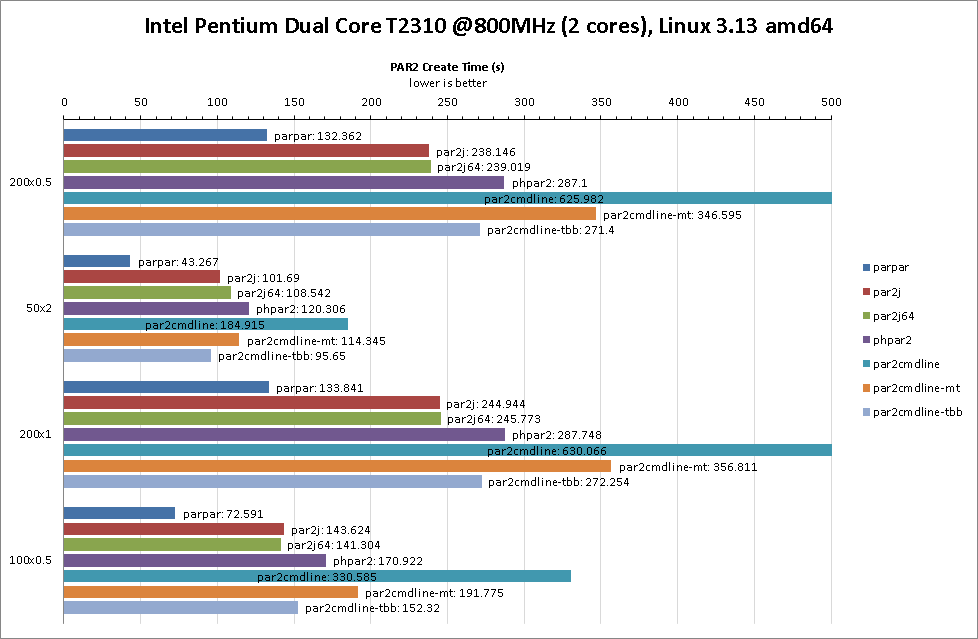
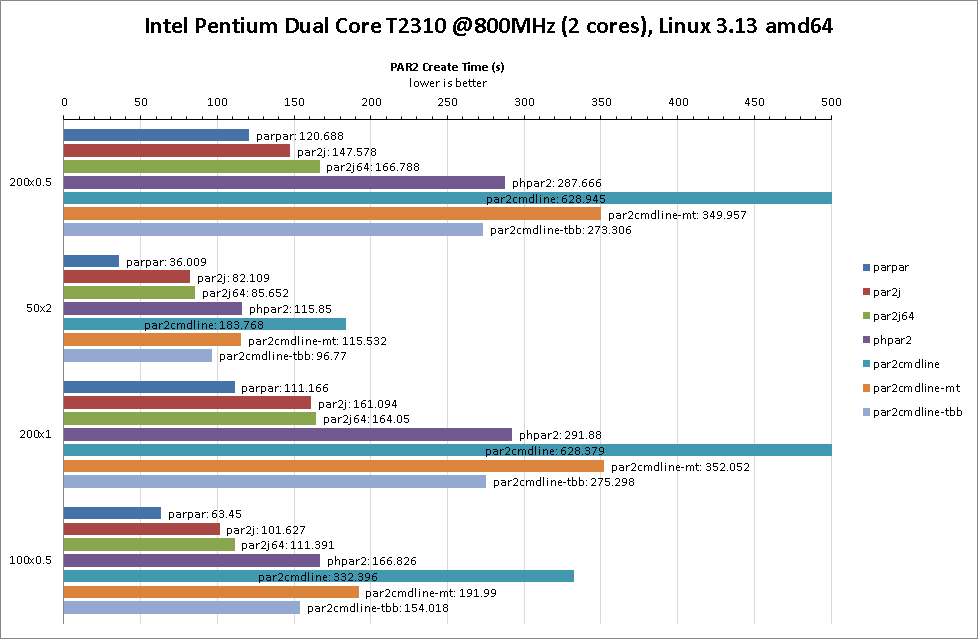
Update benchmarks

diff --git a/benchmarks/info.md b/benchmarks/info.md
@@ -21,11 +21,13 @@ Sample Benchmark Results
 
 ![](<i5-3570.png>)
 
-![](<Xeon2650.png>)
-
 ![](<A7750.png>)
 
 ![](<T2310.png>)
+
+![](<i3-4160.png>)
+
+![](<AllwinnerH3.png>)
 
  
 
@@ -35,11 +37,12 @@ Benchmark Details
 Applications Tested (and commands given)
 ----------------------------------------
 
--   ParPar 0.1.0 (incomplete) [2015-10-04]
+-   [ParPar 0.2.0](<https://github.com/animetosho/parpar>) [2015-11-15]
 
     -   `parpar -s [blocksize] -r [rblocks] -m 2000M -o [output] [input]`
 
--   [par2j from MultiPar 1.2.8.4](<http://hp.vector.co.jp/authors/VA021385/>) [2015-09-19]
+-   [par2j from MultiPar 1.2.8.7](<http://hp.vector.co.jp/authors/VA021385>)
+    [2015-10-17]
 
     -   `par2j c -ss [blocksize] -rn [rblocks] -rf1 -in -m7 [output] [input]`
 
@@ -76,23 +79,33 @@ Applications Tested (and commands given)
 
 ### Notes
 
--   as it is still under a lot of development, ParPar’s benchmark result should
-    only be considered as very rough and just a general indicator of likely
-    performance. The result may change as ParPar becomes a fully featured PAR2
-    client.
-
 -   stock par2cmdline does not implement multi-threading, whereas all other
-    applications tested here do
+    applications tested here do. In some of the graphs above, par2cmdline’s
+    result has been cut off (but the number is accurate) so that interesting
+    results are highlighted
 
--   I believe that all applications use the SPLIT(16,8) algorithm for
-    calculation; par2j will use SPLIT(16,4) if SSSE3 is available; ParPar will
-    select one of SPLIT(16,4), XOR and SPLIT(16,8) depending on CPU
+-   I believe that all applications use the “SPLIT8” algorithm (8-bit LH lookup
+    table) for calculation; par2j will use “SPLIT4” if SSSE3 is available,
+    falling back to SPLIT8 otherwise; ParPar will select one of SPLIT4, XOR and
+    SPLIT8 depending on CPU capabilities. Algorithm selection should have the
+    following effect on performance:
+
+    -   SPLIT4 is signficantly faster than SPLIT8, but requires a vector byte
+        lookup instruction (available in SSSE3 (x86) or NEON (ARM))
+
+    -   XOR is significantly faster than SPLIT8 and slightly slower than SPLIT4,
+        for CPUs with fast SSE2. It is faster than SPLIT4 on CPUs with a slow
+        vector byte lookup implementation (Intel Atom or first gen Core 2)
+
+    -   ParPar supports 256-bit SPLIT4 implementation, so should be
+        significantly faster than par2j’s 128-bit implementation on CPUs that
+        support AVX2 (Intel Haswell, AMD Zen, VIA Eden X4 or later)
 
 -   par2j and phpar2 are Windows only, all other applications are cross platform
 
--   on Linux, par2j and phpar2 are run under Wine. All other applications are
-    built natively using standard build tools (GCC etc). *libtbb-dev* is needed
-    for par2cmdline-tbb to build.
+-   on x86 Linux, par2j and phpar2 are run under Wine. All other applications
+    are built natively using standard build tools (GCC etc). *libtbb-dev* is
+    needed for par2cmdline-tbb to build.
 
 -   GPU based tools aren’t investigated here as they are currently of no
     interest to me. Benchmarks here are CPU only
@@ -101,6 +114,9 @@ Applications Tested (and commands given)
     factor. Whilst this would be nice to test, how applications decide to use
     memory can vary, and par2j uses a different scheme to other applications,
     which makes it difficult to do a fair comparison
+
+    -   My ARM board only has 1GB RAM, so I’ve adjusted the memory limit down to
+        800MB
 
  
 
@@ -141,4 +157,7 @@ aware of for it to work:
     CSV file
 
 -   as memory limits have been set quite high for most tests, ensure your system
-    has enough free RAM for a fair comparison
+    has enough free RAM for a fair comparison (if you need to change this,
+    search for “2000” in the code and change to something else)
+
+-   the *async* library is required (`npm install async` will get what you need)
